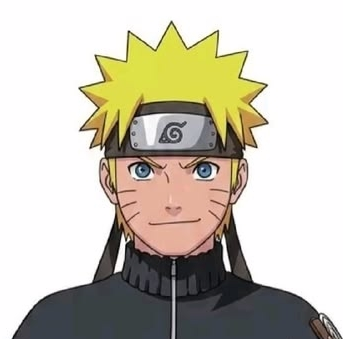
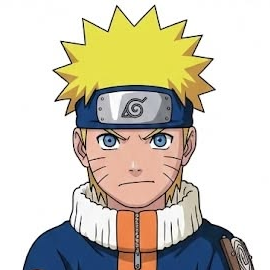
나루토 이미지 수정

diff --git a/js/character/naruto.js b/js/character/naruto.js
@@ -7,8 +7,8 @@ const BOMB_SCALE = 1.5;
 const AIM_SLIP = (5 * Math.PI) / 180;
 
 const portraits = {
-  naruto: loadPortrait("../../assets/naruto.png?v=3"),
-  narutoBeast: loadPortrait("../../assets/naruto-phase2.jpg?v=4"),
+  naruto: loadPortrait("../../assets/naruto.png?v=4"),
+  narutoBeast: loadPortrait("../../assets/naruto-phase2.png?v=5"),
   rasengan: loadPortrait("../../assets/rasengan.png"),
   bijudama: loadPortrait("../../assets/bijudama.png"),
   kunai: null,

diff --git a/js/character/index.js b/js/character/index.js
@@ -5,7 +5,7 @@
  */
 
 import { blaze } from "./blaze.js?v=36";
-import { drawNaruto, drawSkillOrb, drawWeapon, naruto, onPortraits } from "./naruto.js?v=55";
+import { drawNaruto, drawSkillOrb, drawWeapon, naruto, onPortraits } from "./naruto.js?v=56";
 import { nova } from "./nova.js?v=4";
 import { drawPhantom, phantom } from "./phantom.js?v=1";
 import { drawTitan, titan } from "./titan.js?v=1";

diff --git a/js/main.js b/js/main.js
@@ -1,4 +1,4 @@
-import { drawCharacter, getCharacter, onPortraits, roster } from "./character/index.js?v=67";
+import { drawCharacter, getCharacter, onPortraits, roster } from "./character/index.js?v=68";
 import { createMatch } from "./engine.js?v=95";
 import { toggleMute, unlockAudio } from "./sfx.js?v=28";
 

diff --git a/js/engine.js b/js/engine.js
@@ -1,4 +1,4 @@
-import { drawCharacter, drawSkillOrb, drawWeapon, getCharacter } from "./character/index.js?v=67";
+import { drawCharacter, drawSkillOrb, drawWeapon, getCharacter } from "./character/index.js?v=68";
 import { play } from "./sfx.js?v=27";
 
 const DESIGN = 520;

diff --git a/index.html b/index.html
@@ -134,6 +134,6 @@
       </section>
     </div>
     <p id="toast" class="toast" role="status"></p>
-    <script type="module" src="js/main.js?v=102"></script>
+    <script type="module" src="js/main.js?v=103"></script>
   </body>
 </html>
